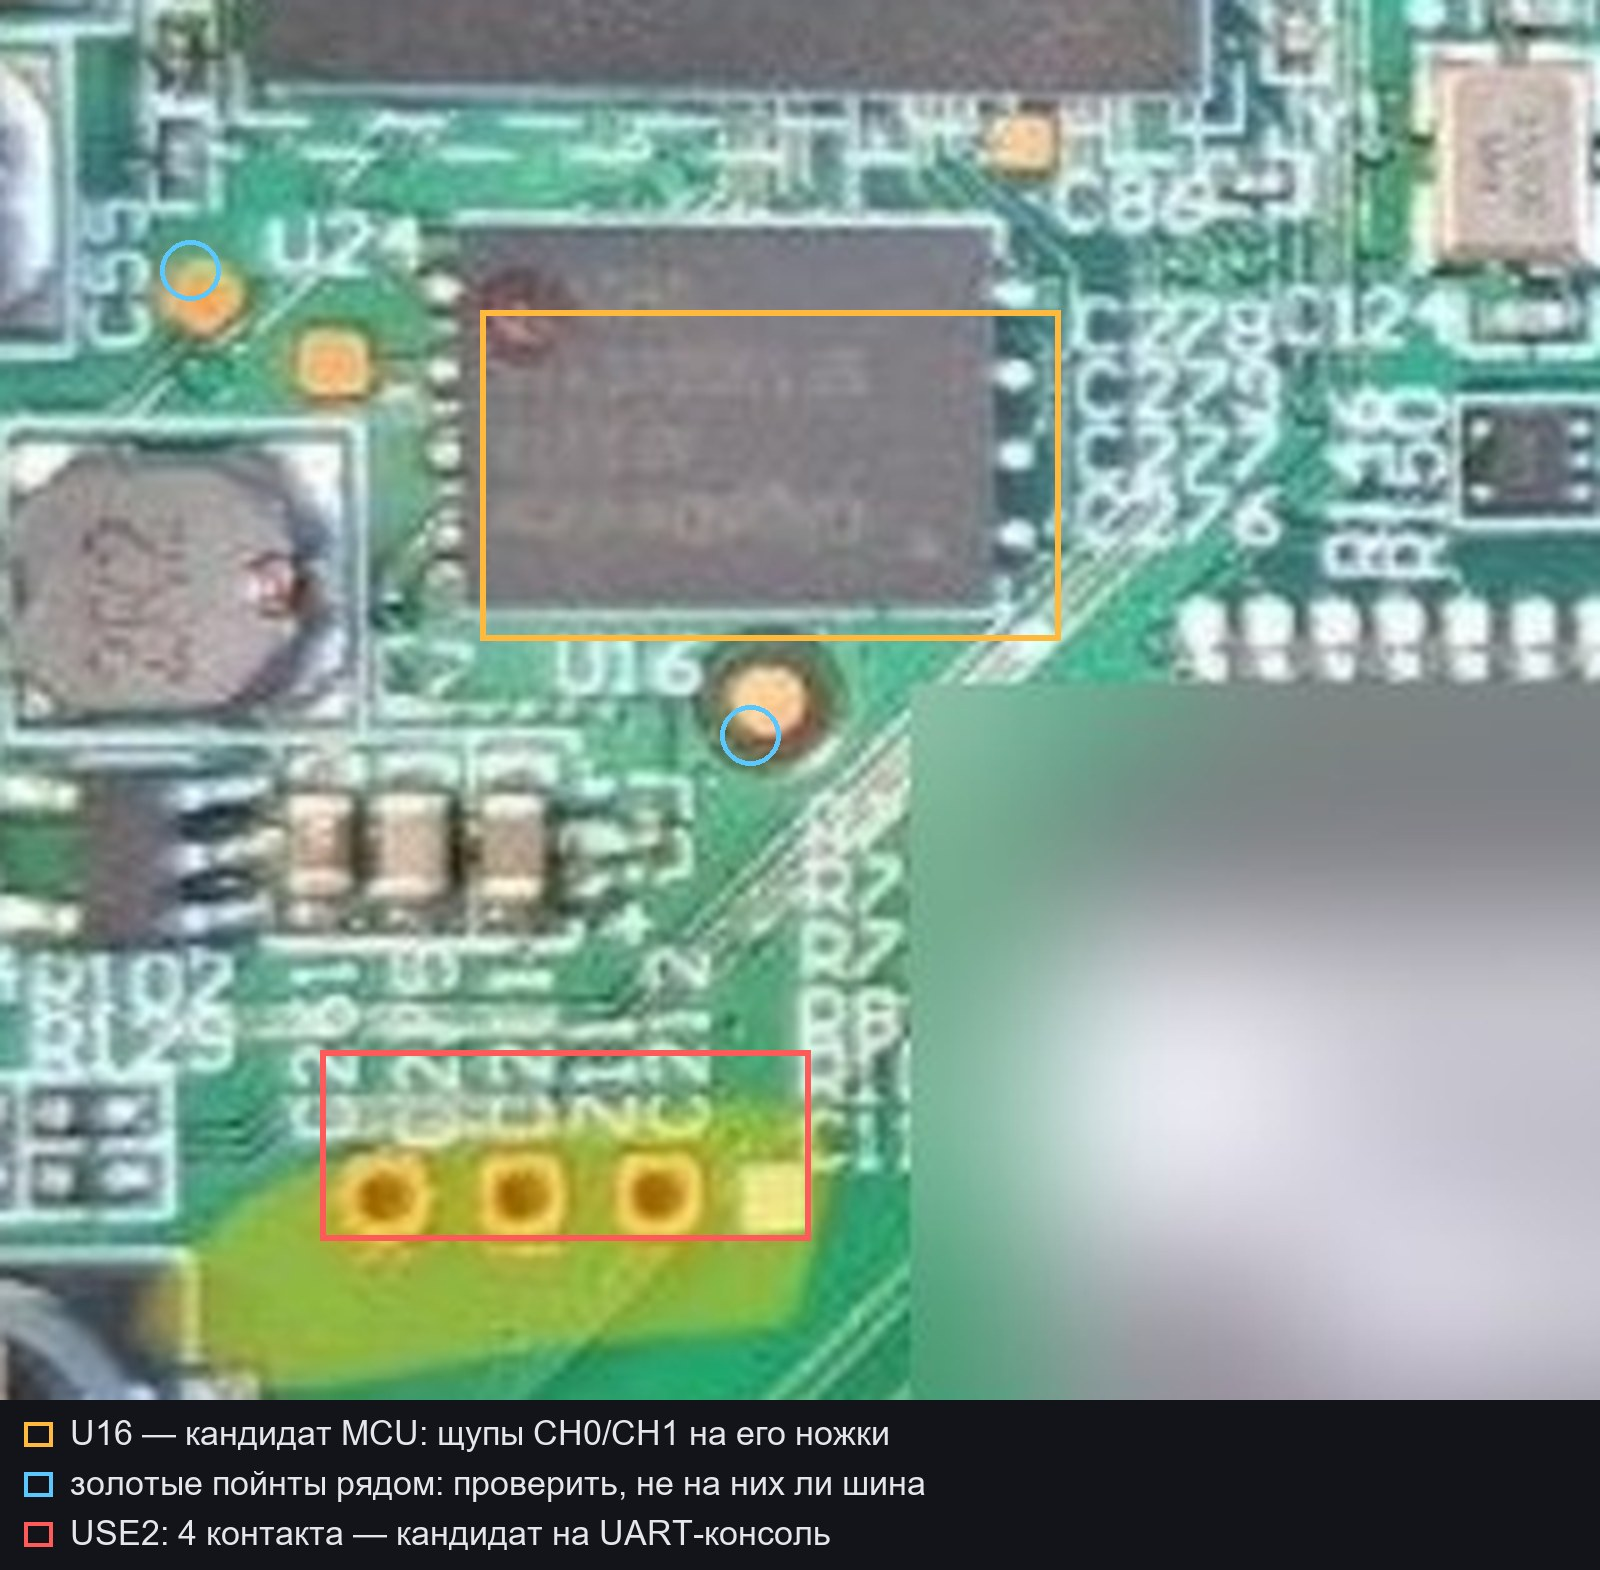
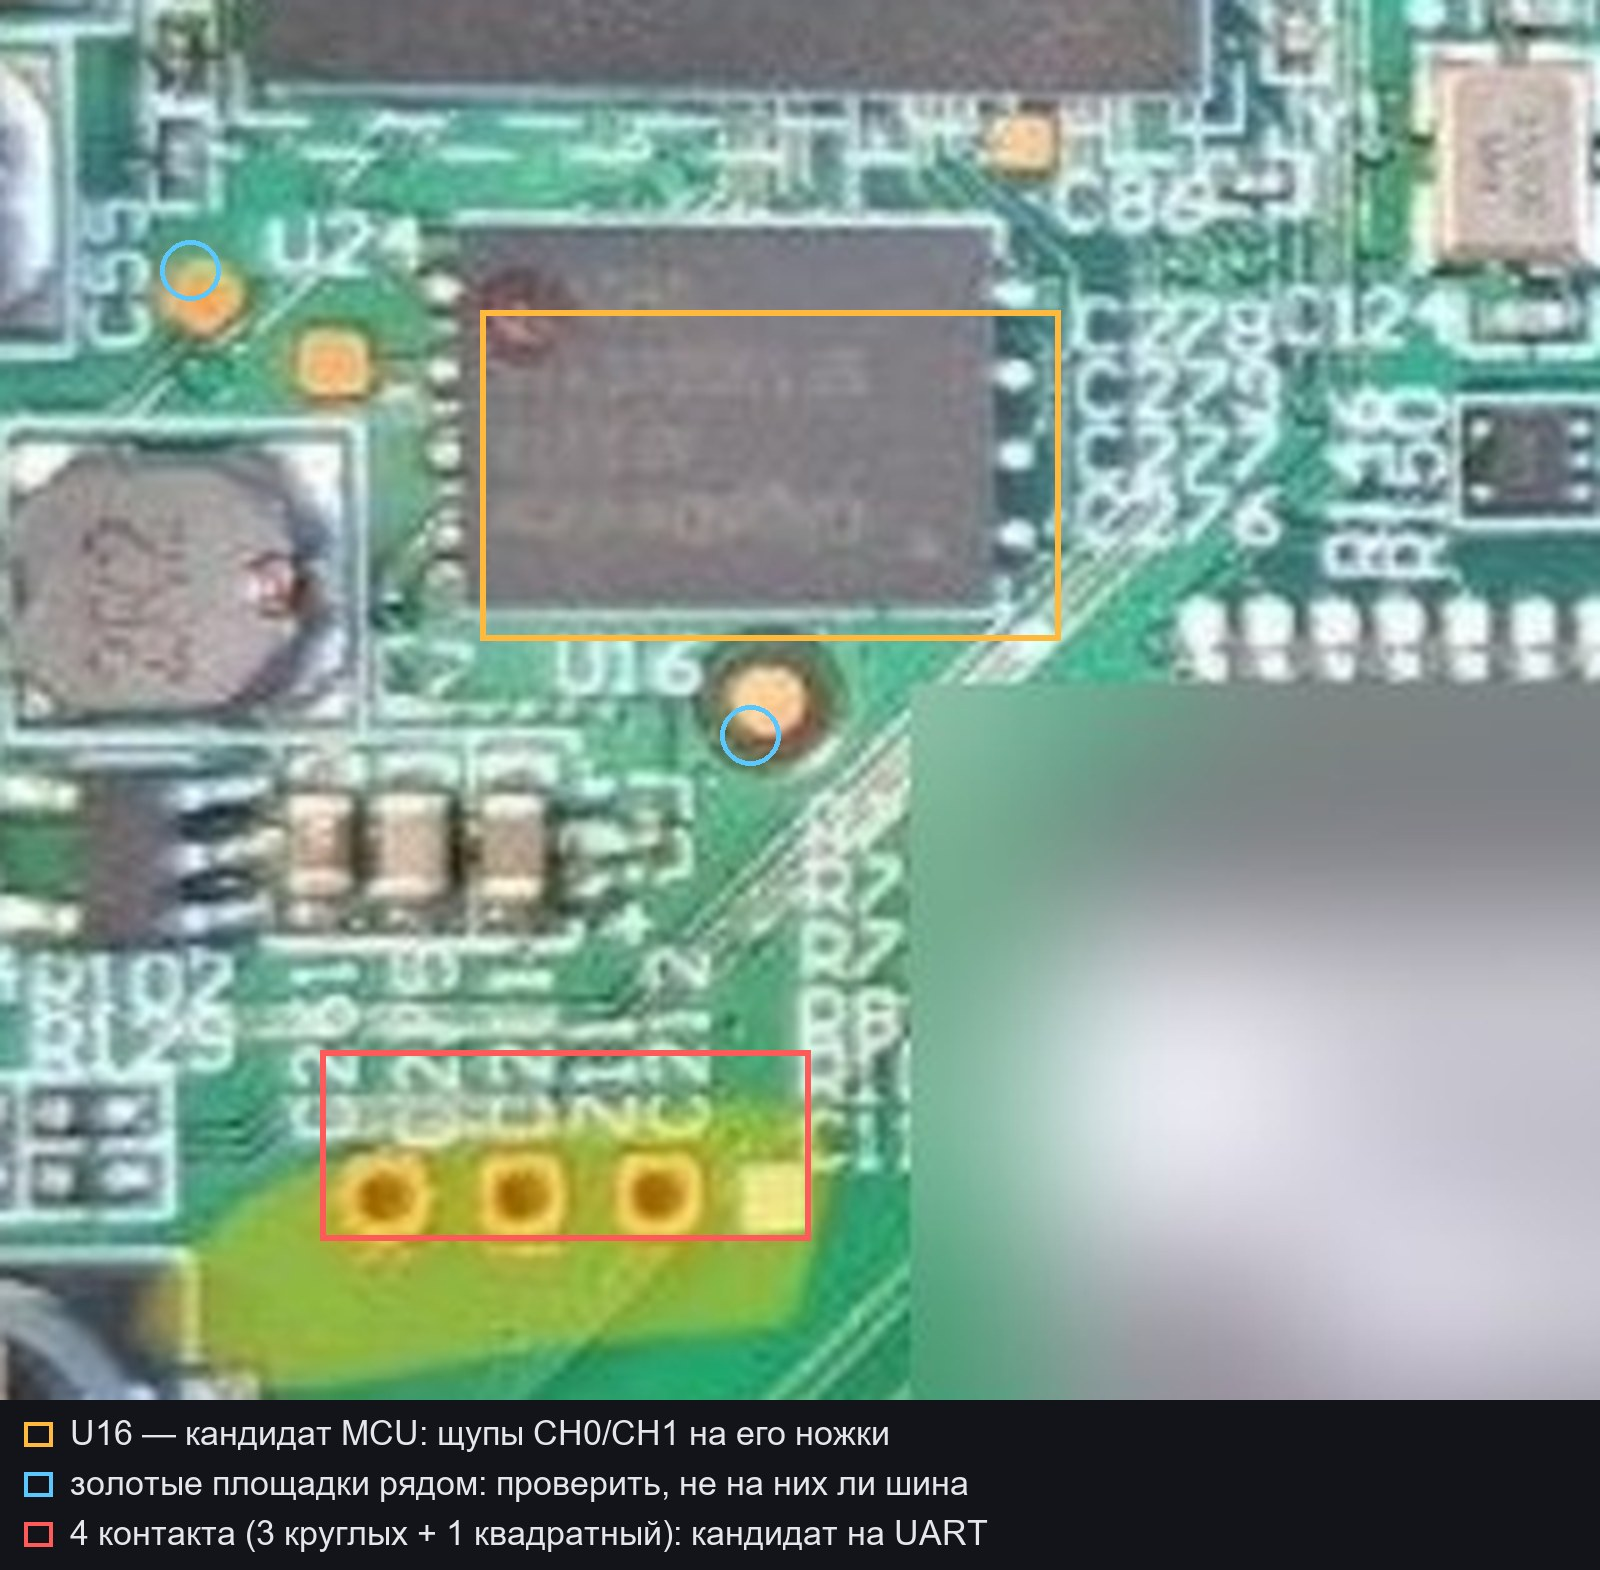
Плата: убрана нечитаемая маркировка контактов, описание по расположению

Changed region(s): [[0.0312, 0.9363, 0.625, 0.9987]]

diff --git a/usb.html b/usb.html
@@ -130,21 +130,21 @@ rkdeveloptool rl 0 &lt;секторов&gt; out.bin
 </tr>
 <tr>
 <td>4</td>
-<td>Четыре контакта у шелкографии <strong>USE2</strong> (три круглых + один квадратный, маркер первого вывода) — вероятный <strong>UART</strong></td>
-<td>[гипотеза]; шелкография читается частично</td>
+<td>Четыре контакта рядом с U16 (три круглых + один квадратный) — вероятный <strong>UART</strong></td>
+<td>[гипотеза]; маркировка рядом не читается</td>
 </tr>
 </tbody>
 </table>
 <h3 id="_2">Что проверить мультиметром</h3>
 <ol>
 <li><strong>Общий провод:</strong> минус на экран или на конденсатор у разъёма питания.</li>
-<li><strong>Контакты USE2 (4):</strong> на одном должно быть ~3,3 В — это питание; два других «дёргаются» при загрузке — это TX/RX; оставшийся — земля. Квадратный контакт обычно первый вывод разъёма.</li>
+<li><strong>Четыре контакта у U16:</strong> на одном должно быть ~3,3 В — это питание; два других «дёргаются» при загрузке — это TX/RX; оставшийся — земля. Квадратный контакт обычно первый вывод.</li>
 <li><strong>Порядок щупов:</strong> сначала измеряем напряжение, только потом подключаем USB-UART, и обязательно с общим проводом между платой и переходником.</li>
 <li><strong>MCU:</strong> нужен макро-снимок маркировки U16 и соседних QFN — по фото на 1200 px текст не читается. Как только маркировка видна, ищем даташит и распиновку шины к SoC.</li>
 </ol>
 <p><strong>[гипотеза]</strong> Если пэды окажутся UART, консоль загрузчика — самый дешёвый вход: без пайки и без программатора.</p>
 <h2 id="mcu">Сниффинг шины MCU: куда цепляться</h2>
-<p><img alt="Точки подключения: U16, соседние пойнты, USE2" src="assets/mcu-sniff.jpg" /></p>
+<p><img alt="Точки подключения: U16, соседние площадки, четыре контакта" src="assets/mcu-sniff.jpg" /></p>
 <p>Нужно: логический анализатор (8 каналов, 24 МГц хватает для UART; лучше 100 МГц), три щупа с иглами, USB-UART для консоли.</p>
 <table>
 <thead>
@@ -166,8 +166,8 @@ rkdeveloptool rl 0 &lt;секторов&gt; out.bin
 <td>[гипотеза]</td>
 </tr>
 <tr>
-<td><strong>USE2</strong> (4 контакта)</td>
-<td>кандидат на UART-консоль процессора</td>
+<td>Четыре контакта у U16</td>
+<td>кандидат на UART-консоль процессора; маркировка рядом не читается</td>
 <td>[гипотеза]</td>
 </tr>
 </tbody>

diff --git a/docs/USB_MASKROM.md b/docs/USB_MASKROM.md
@@ -70,12 +70,12 @@ rkdeveloptool rl 0 262144 out.bin
 | 1 | CPU **RK3308H** — грузится загрузчик, на нём ищем UART | [факт] по маркировке |
 | 2 | **NAND TSOP-48** под наклейкой — цель дампа | [факт] по корпусу и обвязке |
 | 3 | U16 — кандидат **MCU**, который выводит ключ | [гипотеза] маркировка на фото не читается |
-| 4 | Четыре контакта у шелкографии **USE2** (три круглых + один квадратный, маркер первого вывода) — вероятный **UART** | [гипотеза]; шелкография читается частично |
+| 4 | Четыре контакта рядом с U16 (три круглых + один квадратный) — вероятный **UART** | [гипотеза]; маркировка рядом не читается |
 
 ### Что проверить мультиметром
 
 1. **Общий провод:** минус на экран или на конденсатор у разъёма питания.
-2. **Контакты USE2 (4):** на одном должно быть ~3,3 В — это питание; два других «дёргаются» при загрузке — это TX/RX; оставшийся — земля. Квадратный контакт обычно первый вывод разъёма.
+2. **Четыре контакта у U16:** на одном должно быть ~3,3 В — это питание; два других «дёргаются» при загрузке — это TX/RX; оставшийся — земля. Квадратный контакт обычно первый вывод.
 3. **Порядок щупов:** сначала измеряем напряжение, только потом подключаем USB-UART, и обязательно с общим проводом между платой и переходником.
 4. **MCU:** нужен макро-снимок маркировки U16 и соседних QFN — по фото на 1200 px текст не читается. Как только маркировка видна, ищем даташит и распиновку шины к SoC.
 
@@ -84,7 +84,7 @@ rkdeveloptool rl 0 262144 out.bin
 
 ## Сниффинг шины MCU: куда цепляться
 
-![Точки подключения: U16, соседние пойнты, USE2](assets/mcu-sniff.jpg)
+![Точки подключения: U16, соседние площадки, четыре контакта](assets/mcu-sniff.jpg)
 
 Нужно: логический анализатор (8 каналов, 24 МГц хватает для UART; лучше 100 МГц), три щупа с иглами, USB-UART для консоли.
 
@@ -92,7 +92,7 @@ rkdeveloptool rl 0 262144 out.bin
 |---|---|---|
 | **U16** | чип рядом с процессором — кандидат в MCU, который выводит ключ | [гипотеза] маркировка не читается |
 | Золотые пойнты рядом с U16 | возможно, выведенные линии шины | [гипотеза] |
-| **USE2** (4 контакта) | кандидат на UART-консоль процессора | [гипотеза] |
+| Четыре контакта у U16 | кандидат на UART-консоль процессора; маркировка рядом не читается | [гипотеза] |
 
 ### Порядок подключения
 
